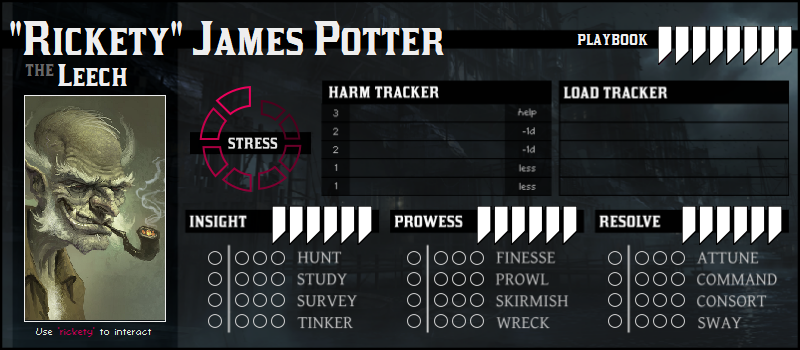
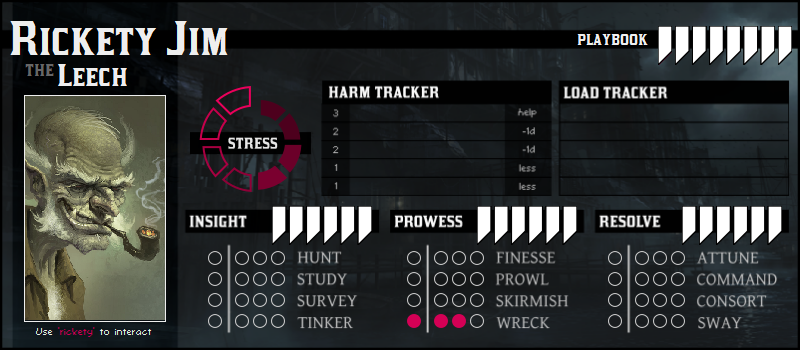
added /remove slash command to delete chars

Changed region(s): [[0.0, 0.0571, 0.5625, 0.1714], [0.3125, 0.2857, 0.375, 0.5429], [0.5, 0.8857, 0.5938, 0.9429]]

diff --git a/GRAPHICS/charcard.html b/GRAPHICS/charcard.html
@@ -6,7 +6,7 @@
                 </head>
             <body>
                 <div class="maindiv">
-                    <div class="title">"Rickety" James Potter</div>
+                    <div class="title">Rickety Jim</div>
 
                     <div class="portraitbg">
 
@@ -20,7 +20,7 @@
 
                     </div>
 
-                    <div class="stress"><img src="stress0.png" /></div>
+                    <div class="stress"><img src="stress4.png" /></div>
 
                     <div class="tracker">
 
@@ -66,7 +66,7 @@
 
                         <div class="attribs two"><img src="a0.png" /> <img src="a0.png" /><img src="a0.png" /><img src="a0.png" /></div>
 
-                        <div class="attribs two"><img src="a0.png" /> <img src="a0.png" /><img src="a0.png" /><img src="a0.png" /></div>
+                        <div class="attribs two"><img src="a1.png" /> <img src="a1.png" /><img src="a1.png" /><img src="a0.png" /></div>
 
                         <div class="attribs three"><img src="a0.png" /> <img src="a0.png" /><img src="a0.png" /><img src="a0.png" /></div>
 

diff --git a/CharTrack.py b/CharTrack.py
@@ -232,9 +232,7 @@ def displaystatus(nickname:str):
     imgfile = nextcord.File(imagefile)
     return imgfile
 
-
-
-@client.slash_command(name="new", description="Make a new Player Character, linked to you")
+@client.slash_command(name="new", description="Generate a new Player Character status sheet.")
 async def newchar(interaction: Interaction, name:str, playbook:str):
     name = name.title()
     playbook = playbook.title()
@@ -258,7 +256,30 @@ async def newchar(interaction: Interaction, name:str, playbook:str):
     savecharlist(characterlist)
     await interaction.response.send_message((f"Character Created: **{thischar.charname}** ( '{thischar.safename}' ), the {playbook}"))
 
+@client.slash_command(name="remove", description="Remove a PC status sheet completely. Type \"CONFIRM\" for confirmation.")
+async def removechar(interaction: Interaction, nickname:str, allcaps_confirm:str):
+    characterlist = opencharlist()
+    print(f"\n- - - - - - -\nREMOVE: characterlist before = {characterlist}")
+    filename = nickname+".pkl"
+    print(f"REMOVE: calling to open filename = {filename}")
+    thischar = openchar(filename)
 
+    if allcaps_confirm == "REMOVE":
+        oldname = thischar.charname
+        print(f"REMOVE: deleting file... {filename}")
+        os.remove(datapath+filename)
+        print(f"REMOVE: Character file removed.")
+        print(f"REMOVE: removing {filename} from characterlist")
+        characterlist.remove(filename)
+        savecharlist(characterlist)
+        characterlist = opencharlist()
+        print(f"REMOVE: characterlist updated  = {characterlist}\n- - - - - - -\n")
+        message = (f"{oldname} has been successfully removed.")
+        await interaction.response.send_message(message)
+    else:
+        message = "Removal cancelled. To remove character, please confirm by typing \"CONFIRM\" in confirm field."
+        await interaction.followup.send(message)
+    
 @client.slash_command(name="setnick", description="Allows renaming of a Character's input name")
 async def setnick(interaction: Interaction, nickname:str, newnick:str):
     characterlist = opencharlist()
@@ -291,7 +312,6 @@ async def setnick(interaction: Interaction, nickname:str, newnick:str):
     characterlist = opencharlist()
     print(f"SETNICK: characterlist after  = {characterlist}\n- - - - - - -\n")
     await interaction.response.send_message(f"{thischar.charname} nickname updated to {newnick}")
-
 
 @client.slash_command(name="listall", description="Displays a list of all registered Player Characters and nicknames.")
 async def listall(interaction: Interaction):
